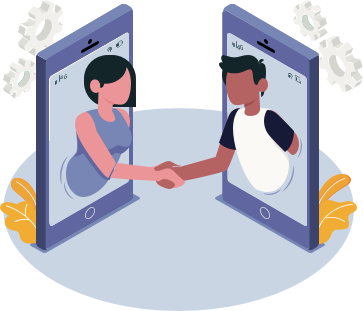
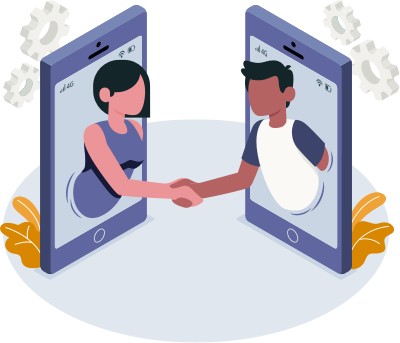
change README.md and change image

diff --git a/README.md b/README.md
@@ -1,5 +1,7 @@
-![image2](https://user-images.githubusercontent.com/22166728/79042103-2ec3a880-7bf5-11ea-8545-4245f7396820.png)
+![image2](https://user-images.githubusercontent.com/22166728/79042412-fffb0180-7bf7-11ea-99c1-2912c11224e5.png)
 
 <h1 style="text-align: center">WeHelp4You</h1>
 
 The platform to help people during Coronavirus and everyone can help
+
+anyone can contribute
